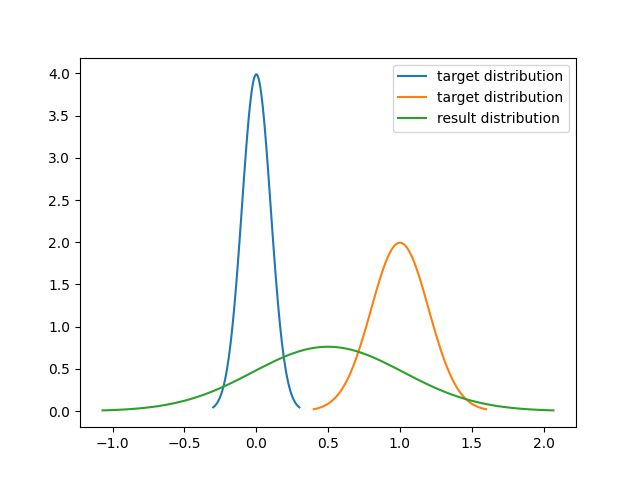
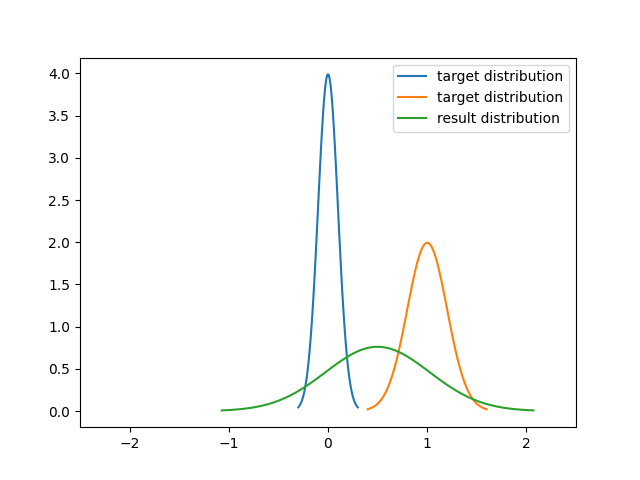
fix bug, can generate gif

diff --git a/divergence.py b/divergence.py
@@ -1,7 +1,7 @@
 import torch
 import matplotlib.pyplot as plt
 import copy
-
+from plot import plot
 
 def get_divergence(distance_measure):
     if distance_measure == "fkl":
@@ -20,15 +20,23 @@ def fkl(target_distributions, result_distribution):
     fkl = 0
     for target_distribution in target_distributions:
         fkl += torch.mean(target_distribution.entropy())
-        fkl -= torch.mean(result_distribution.log_prob(target_distribution.rsample(torch.Size([256]))))
+        fkl -= torch.mean(
+            result_distribution.log_prob(target_distribution.rsample(torch.Size([256])))
+        )
     return fkl
 
 
 def rkl(target_distributions, result_distribution):
     rkl = 0
     rkl += torch.mean(result_distribution.entropy())
-    q_log_q_list=[torch.mean(target_distribution.log_prob(result_distribution.rsample(torch.Size([256])))) for target_distribution in target_distributions]
-    rkl -= torch.max(torch.tensor(q_log_q_list))
+    q_log_p = torch.hstack(
+        [
+            target_distribution.log_prob(result_distribution.rsample(torch.Size([256])))
+            for target_distribution in target_distributions
+        ]
+    )
+    q_log_p=torch.max(q_log_p,axis=1)[0]
+    rkl -= torch.mean(q_log_p)
     return rkl
 
 
@@ -57,12 +65,13 @@ def divergence_minimization(target_distributions, divergence, lr, iter_num):
     best_loss = 10000
     best_mean = copy.deepcopy(mean)
     best_std = copy.deepcopy(std)
-    for _ in range(iter_num):
-        if std<0.05:
+    frame_list=[]
+    for i in range(iter_num):
+        if std < 0.05:
             break
         result_distribution = torch.distributions.normal.Normal(mean, std)
         loss = divergence(target_distributions, result_distribution)
-        if loss < best_loss:    
+        if loss < best_loss:
             best_loss = loss
             best_mean = copy.deepcopy(mean)
             best_std = copy.deepcopy(std)
@@ -70,10 +79,12 @@ def divergence_minimization(target_distributions, divergence, lr, iter_num):
         loss.backward()
         optimizer.step()
         loss_list.append(loss.detach().numpy())
-
+        if (i%100==0):
+            img=plot(target_distributions, result_distribution,save_img=False)
+            frame_list.append(img)
     # plot loss
     plot_loss(loss_list)
-    return torch.distributions.normal.Normal(best_mean, best_std)
+    return torch.distributions.normal.Normal(best_mean, best_std), frame_list
 
 
 def plot_loss(loss_list):

diff --git a/main.py b/main.py
@@ -2,6 +2,9 @@ import argparse
 from distributions import get_target_distribution
 from divergence import get_divergence, divergence_minimization
 from plot import plot
+import imageio
+
+
 def get_config():
     parser = argparse.ArgumentParser(description="divergence visualization")
     parser.add_argument(
@@ -23,9 +26,28 @@ def get_config():
         help="learning rate",
     )
     return parser.parse_args()
+
+
 if __name__ == "__main__":
     config = get_config()
-    target_distributions = get_target_distribution([[0.0],[1.0]], [[0.1],[0.2]])
+    target_distributions = get_target_distribution([[-1.0], [1.0]], [[0.3], [0.2]])
     divergence = get_divergence(config.distance_measure)
-    result_distribution = divergence_minimization(target_distributions, divergence, config.lr, config.iter_num)
+    result_distribution, frame_list = divergence_minimization(
+        target_distributions, divergence, config.lr, config.iter_num
+    )
     plot(target_distributions, result_distribution, config.distance_measure)
+    # turn frame_list(list of np array) into gif
+    # frame_list[0].save(
+    #     f"distribution_{config.distance_measure}.gif",
+    #     save_all=True,
+    #     append_images=frame_list[1:],
+    #     duration=50,
+    #     loop=0,
+    # )
+
+    imageio.mimsave(
+        f"distribution_{config.distance_measure}.gif",
+        frame_list,
+        loop=0,
+        duration=100,  # output gif  # array of input frames
+    )  # optional: frames per second

diff --git a/plot.py b/plot.py
@@ -1,9 +1,12 @@
 import matplotlib.pyplot as plt
 import numpy as np
 import scipy.stats as stats
+from io import BytesIO
 
 
-def plot(target_distributions, result_distribution, distance_measure):
+def plot(
+    target_distributions, result_distribution, distance_measure=None, save_img=True
+):
     plt.figure()
     for target_distribution in target_distributions:
         mu = target_distribution.mean[0].detach().numpy()
@@ -23,5 +26,17 @@ def plot(target_distributions, result_distribution, distance_measure):
         label="result distribution",
     )
     plt.legend()
-    plt.savefig(f"distribution_{distance_measure}.png")
-
+    plt.xlim([-2.5,2.5])
+    if save_img:
+        plt.savefig(f"distribution_{distance_measure}.png")
+        plt.close()
+    else:
+        # return image (numpy array)
+        buffer_ = BytesIO()
+        plt.savefig(buffer_, format="png")
+        buffer_.seek(0)
+        img = plt.imread(buffer_)
+        plt.close()
+        img *= 255
+        img = img.astype(np.uint8)
+        return img
